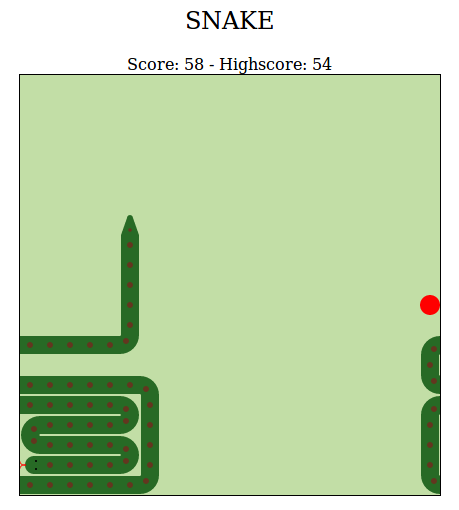
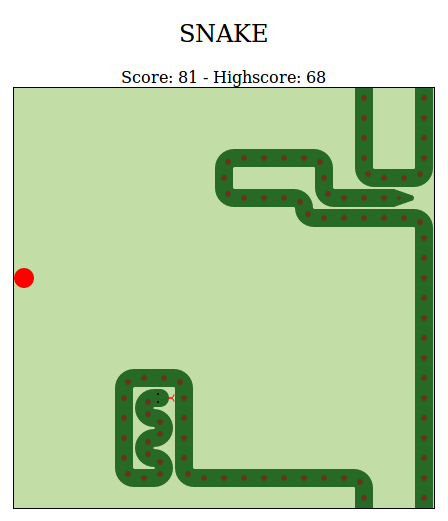
Better screenshot

Changed region(s): [[0.0312, 0.0, 0.9688, 1.0]]

diff --git a/README.md b/README.md
@@ -1,6 +1,6 @@
 # Snake
 A JS implementation of the Snake arcade game with customizable settings and a basic AI.
 
-To play just visit the [GitHub page](https://rddunphy.github.io/snake/). The AI's current highscore is 75.
+To play just visit the [GitHub page](https://rddunphy.github.io/snake/). The AI's current highscore is 81.
 
 ![Snake screenshot](https://github.com/rddunphy/snake/blob/master/img/snake_ai_screenshot.png)
